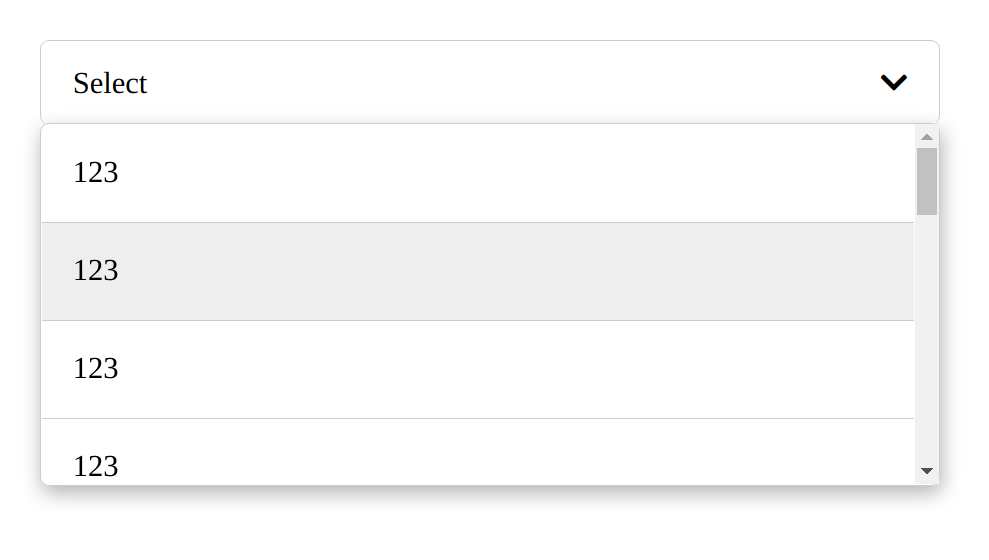
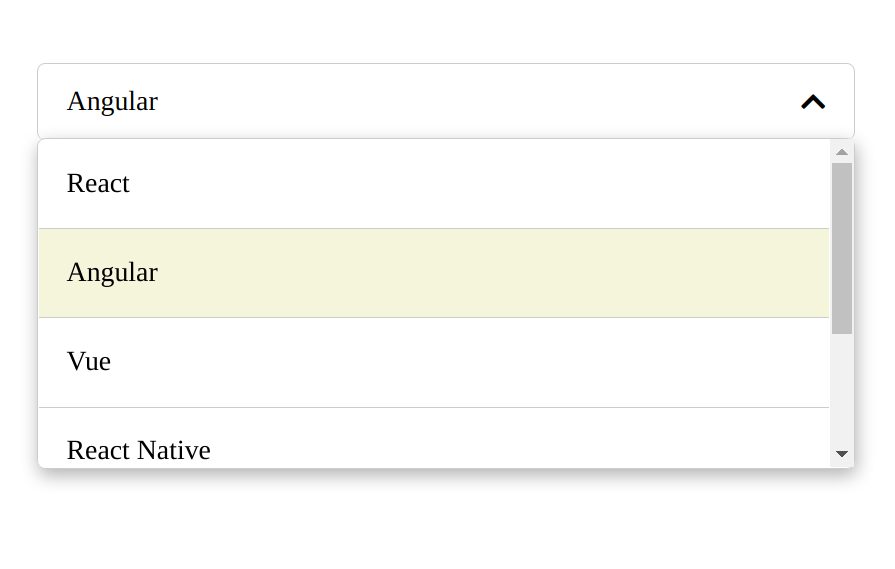
select complete

diff --git a/select/select.js b/select/select.js
@@ -1,15 +1,23 @@
-export const getTemplate = (data = [], placeholder) => {
-  const text = placeholder ?? 'Default placeholder';
+export const getTemplate = (data = [], placeholder, selectedId) => {
+  let text = placeholder ?? 'Default placeholder';
 
   const items = data.map((item) => {
+    let cls = '';
+    if (item.id === selectedId) {
+      text = item.value;
+      cls = 'selected';
+    }
     return `
-      <li class="select__item" data-type="item" data-value="${item.id}">${item.value}</li>
+      <li class="select__item ${cls}" data-type="item" data-id="${item.id}">${item.value}</li>
     `;
   });
 
   return `
+  <div class="select__backdrop" data-type="backdrop">
+  </div>
+  
   <div class="select__input" data-type="input">
-            <span>${text}</span>
+            <span data-type="value">${text}</span>
             <i class="fa fa-chevron-down" data-type="arrow"></i>
           </div>
           <div class="select__dropdown">
@@ -24,6 +32,7 @@ export class Select {
   constructor(selector, options) {
     this.$el = document.querySelector(selector);
     this.options = options;
+    this.selectedId = options.selectedId;
     this.#render();
     this.#setup();
   }
@@ -32,18 +41,26 @@ export class Select {
     const { placeholder, data } = this.options;
 
     this.$el.classList.add('select');
-    this.$el.innerHTML = getTemplate(data, placeholder);
+    this.$el.innerHTML = getTemplate(data, placeholder, this.selectedId);
   }
 
   #setup() {
     this.clickHandler = this.clickHandler.bind(this);
     this.$el.addEventListener('click', this.clickHandler);
     this.$arrow = this.$el.querySelector('[data-type="arrow"]');
+    this.$value = this.$el.querySelector('[data-type="value"]');
   }
 
   clickHandler(event) {
     const { type } = event.target.dataset;
-    if (type === 'input') this.toggle();
+    if (type === 'input') {
+      this.toggle();
+    } else if (type === 'item') {
+      const id = event.target.dataset.id;
+      this.select(id);
+    } else if (type === 'backdrop') {
+      this.close();
+    }
   }
 
   get isOpen() {
@@ -56,6 +73,7 @@ export class Select {
 
   destroy() {
     this.$el.removeEventListener('click', this.clickHandler);
+    this.$el.innerHTML = '';
   }
 
   open() {
@@ -67,5 +85,23 @@ export class Select {
     this.$el.classList.remove('open');
     this.$arrow.classList.remove('fa-chevron-up');
     this.$arrow.classList.add('fa-chevron-down');
+  }
+
+  get current() {
+    return this.options.data.find((item) => item.id === this.selectedId);
+  }
+
+  select(id) {
+    this.selectedId = id;
+    this.$value.textContent = this.current.value;
+
+    this.$el.querySelectorAll('[data-type="item"]').forEach((item) => {
+      item.classList.remove('selected');
+    });
+    this.$el.querySelector(`[data-id="${id}"]`).classList.add('selected');
+
+    this.options.onSelect ? this.options.onSelect(this.current) : null;
+
+    this.close();
   }
 }

diff --git a/select/style.css b/select/style.css
@@ -19,6 +19,7 @@
 .select {
   width: 100%;
   position: relative;
+  z-index: 100;
 }
 
 .select.open .select__dropdown {
@@ -27,6 +28,10 @@
 
 .select.open .select__input {
   border-bottom: none;
+}
+
+.select.open .select__backdrop {
+  display: block;
 }
 
 .select__input {
@@ -71,10 +76,25 @@
   border-bottom: 1px solid #ccc;
 }
 
+.select__item.selected {
+  background-color: beige;
+}
+
 .select__item:hover {
   background-color: #eee;
   cursor: pointer;
   -webkit-transition: background-color 0.15s ease-in;
   transition: background-color 0.15s ease-in;
+}
+
+.select__backdrop {
+  position: fixed;
+  display: none;
+  top: 0;
+  bottom: 0;
+  right: 0;
+  left: 0;
+  background: transparent;
+  z-index: -1;
 }
 /*# sourceMappingURL=style.css.map */

diff --git a/select/style.scss b/select/style.scss
@@ -17,6 +17,7 @@ $height: 46px;
 .select {
   width: 100%;
   position: relative;
+  z-index: 100;
 
   &.open {
     .select__dropdown {
@@ -25,6 +26,10 @@ $height: 46px;
 
     .select__input {
       border-bottom: none;
+    }
+
+    .select__backdrop {
+      display: block;
     }
   }
 
@@ -61,10 +66,25 @@ $height: 46px;
     padding: 1rem;
     border-bottom: 1px solid #ccc;
 
+    &.selected {
+      background-color: beige;
+    }
+
     &:hover {
       background-color: #eee;
       cursor: pointer;
       transition: background-color 0.15s ease-in;
     }
+  }
+
+  &__backdrop {
+    position: fixed;
+    display: none;
+    top: 0;
+    bottom: 0;
+    right: 0;
+    left: 0;
+    background: transparent;
+    z-index: -1;
   }
 }

diff --git a/select/script.js b/select/script.js
@@ -2,6 +2,7 @@ import { Select } from '/select/select.js';
 
 const select = new Select('#select', {
   placeholder: 'Select',
+  selectedId: '2',
   data: [
     { id: '1', value: 'React' },
     { id: '2', value: 'Angular' },
@@ -10,6 +11,9 @@ const select = new Select('#select', {
     { id: '5', value: 'Next' },
     { id: '6', value: 'Nest' },
   ],
+  onSelect(item) {
+    console.log(`Selected item ${item}`);
+  },
 });
 
 window.s = select;
